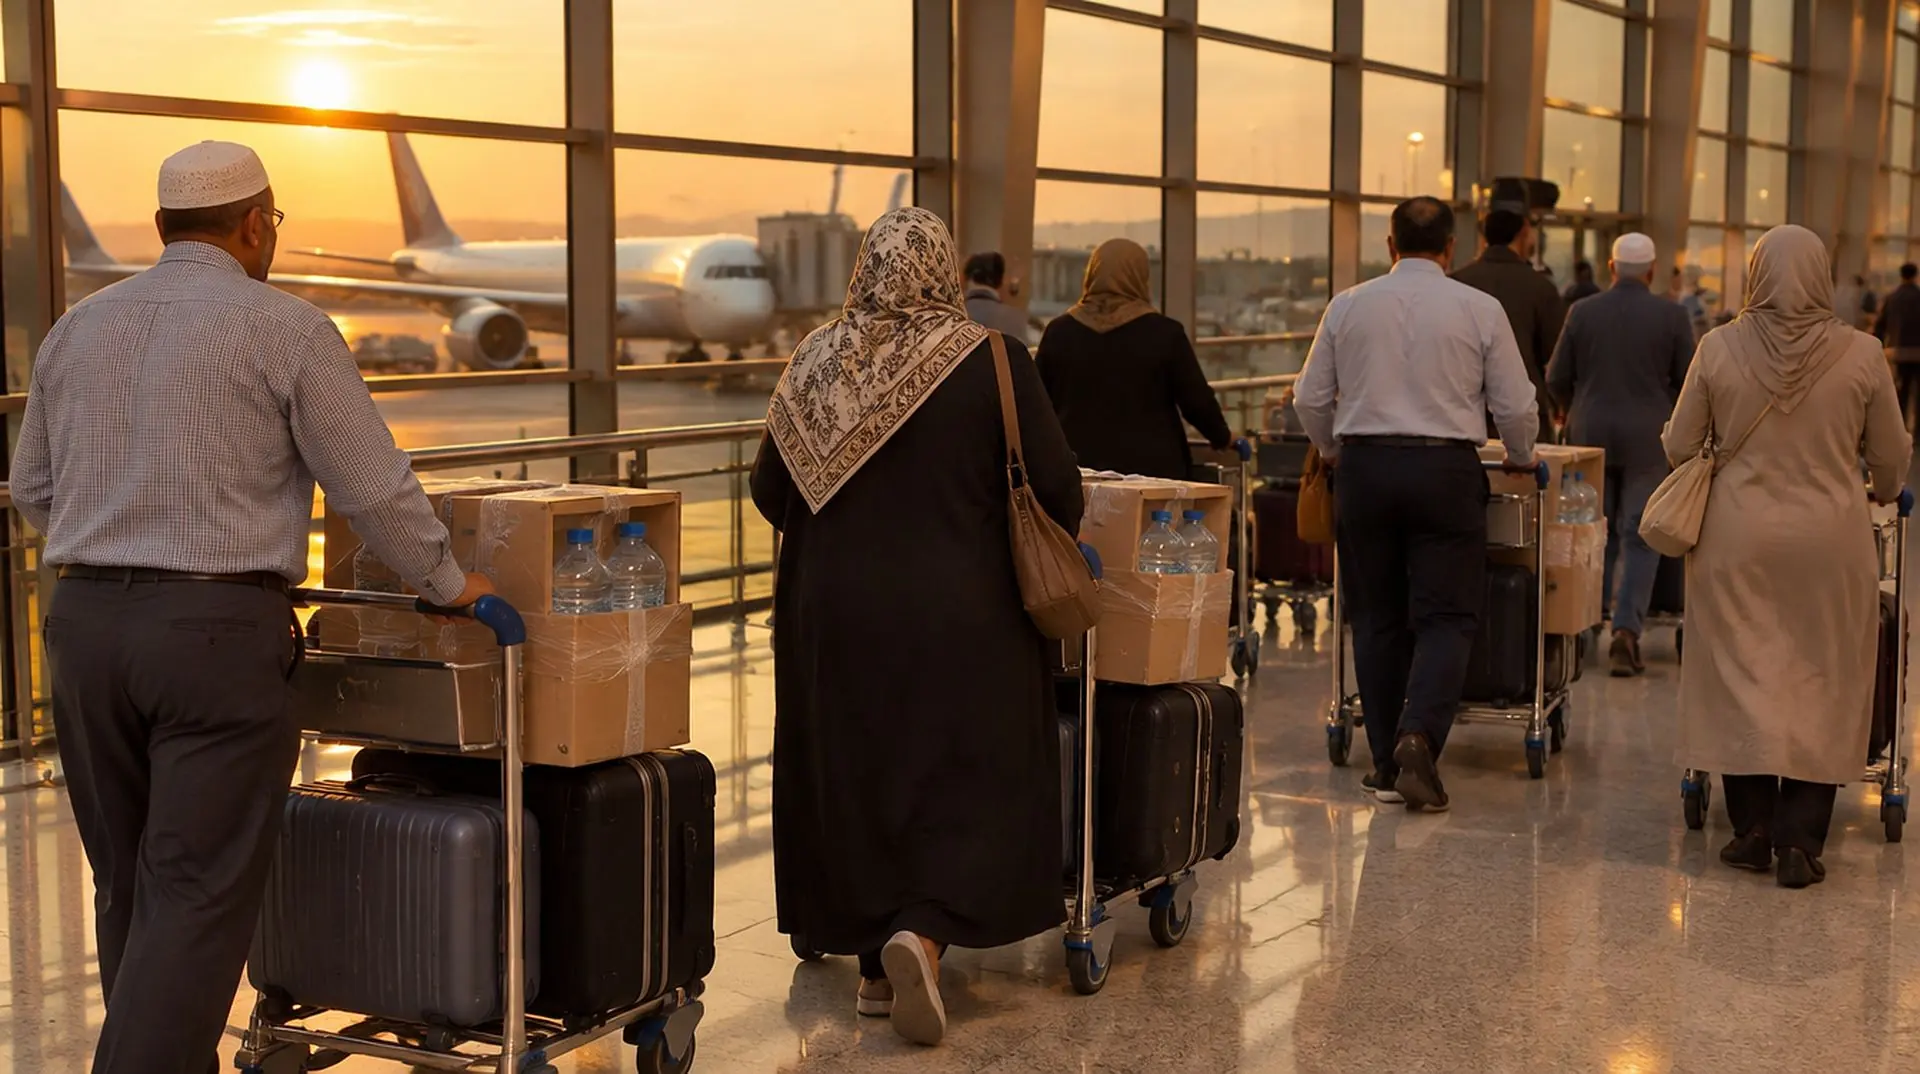
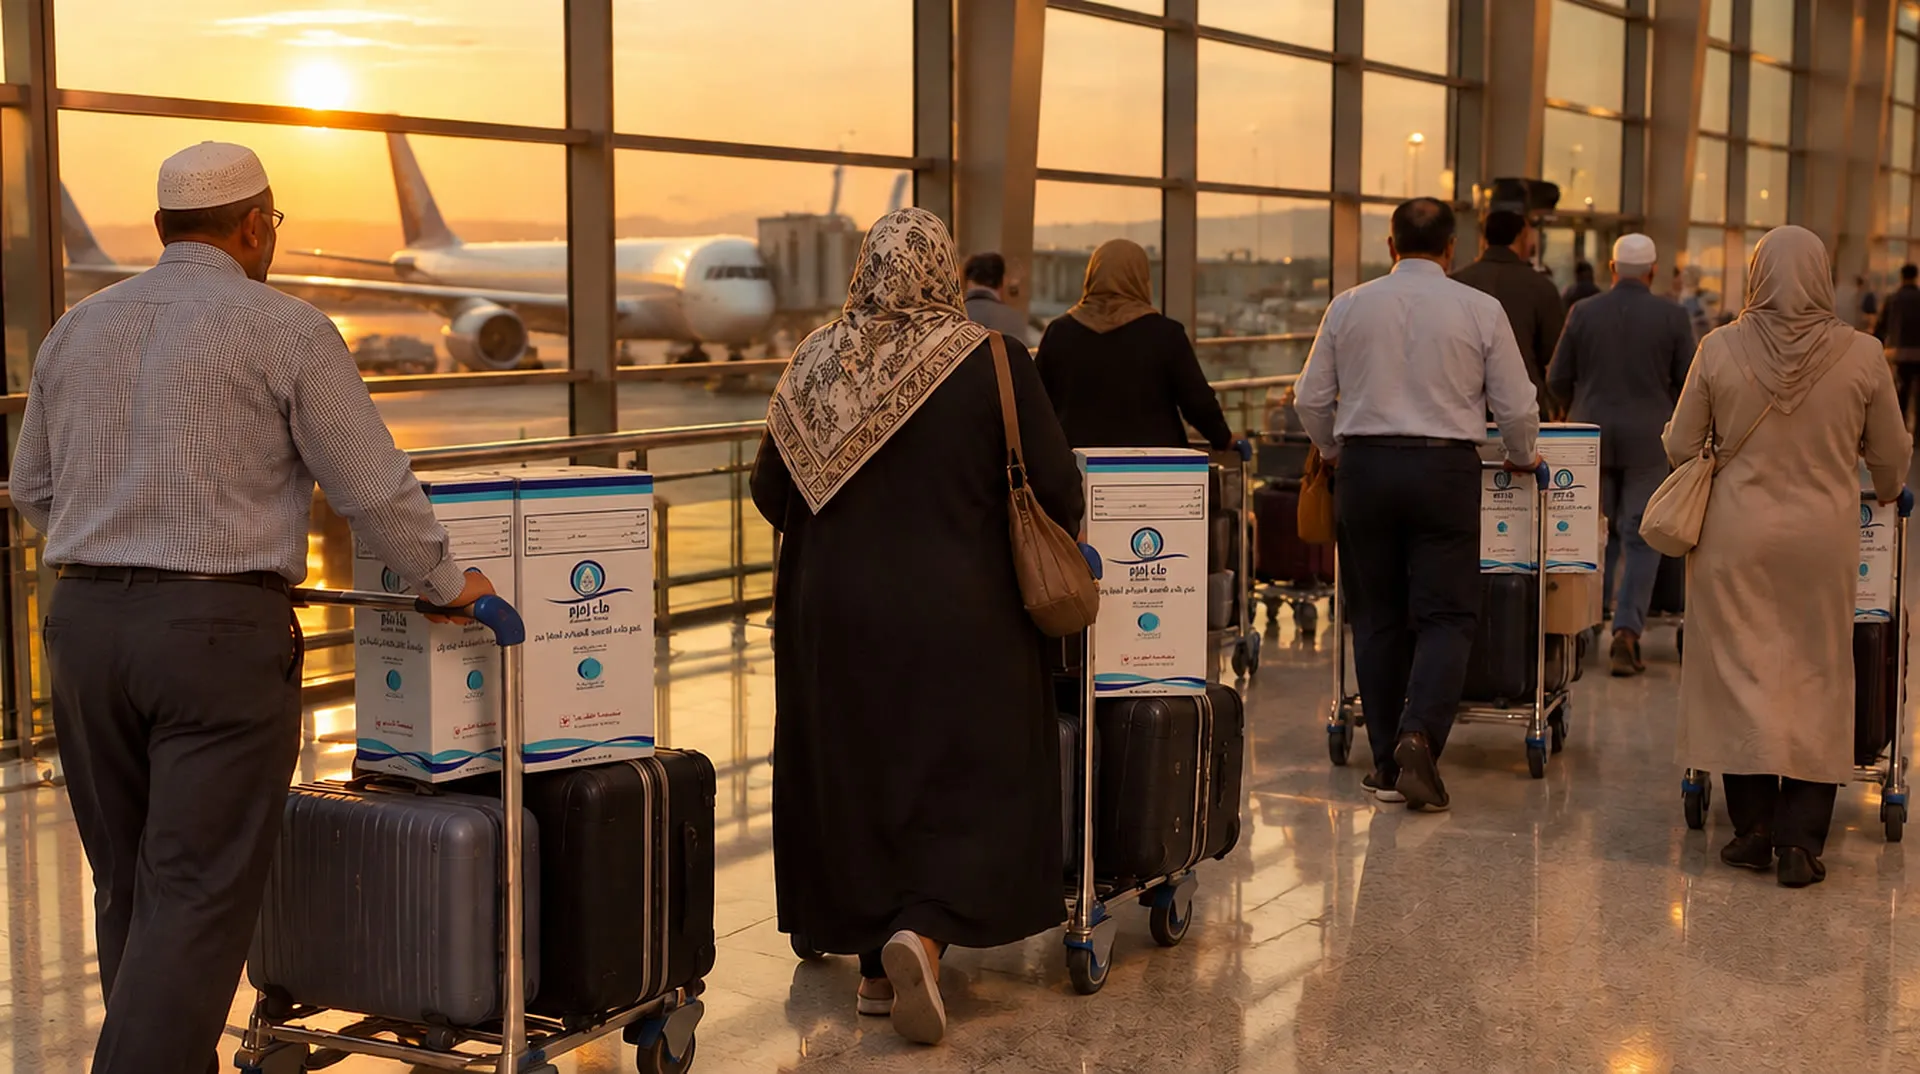
Dijital Tur: Durak yerine Adım; Dönüş fotoğrafında resmî zemzem kutuları (masaüstü ve telefon)
Claude-Session: https://claude.ai/code/session_01J87fLAF2fDjadWq88Wy7gX

diff --git a/docs/tur.html b/docs/tur.html
@@ -4,21 +4,21 @@
 <meta charset="utf-8">
 <meta name="viewport" content="width=device-width, initial-scale=1, viewport-fit=cover">
 <title>Dijital Umre Turu · İstanbul Hac Umre Hediyelik</title>
-<meta name="description" content="Umre nasıl yapılır? Hazırlıktan eve dönüşe on durakta, Hanefî mezhebine göre adım adım umre rehberi: ihram, niyet, telbiye, tavaf, sa'y, tıraş ve okunacak dualar.">
+<meta name="description" content="Umre nasıl yapılır? Hazırlıktan eve dönüşe on adımda, Hanefî mezhebine göre umre rehberi: ihram, niyet, telbiye, tavaf, sa'y, tıraş ve okunacak dualar.">
 <meta name="theme-color" content="#0b1630">
 <link rel="canonical" href="https://istanbulhacumre.com/tur.html">
 <meta property="og:type" content="article">
 <meta property="og:locale" content="tr_TR">
 <meta property="og:site_name" content="İstanbul Hac Umre Hediyelik">
 <meta property="og:title" content="Dijital Umre Turu: Umre adım adım nasıl yapılır?">
-<meta property="og:description" content="Hazırlıktan eve dönüşe on durakta umre: ihram, niyet, telbiye, tavaf, sa'y, tıraş ve okunacak dualar.">
+<meta property="og:description" content="Hazırlıktan eve dönüşe on adımda umre: ihram, niyet, telbiye, tavaf, sa'y, tıraş ve okunacak dualar.">
 <meta property="og:url" content="https://istanbulhacumre.com/tur.html">
 <meta property="og:image" content="https://istanbulhacumre.com/assets/og.jpg">
 <meta property="og:image:width" content="1200"><meta property="og:image:height" content="630">
 <meta name="twitter:card" content="summary_large_image">
 <meta name="robots" content="index,follow,max-image-preview:large,max-snippet:-1,max-video-preview:-1">
 <meta property="og:image:alt" content="İstanbul Hac Umre Hediyelik mağazası, Ümraniye">
-<script type="application/ld+json">{"@context":"https://schema.org","@graph":[{"@type":"BreadcrumbList","itemListElement":[{"@type":"ListItem","position":1,"name":"Ana Sayfa","item":"https://istanbulhacumre.com/"},{"@type":"ListItem","position":2,"name":"Dijital Umre Turu","item":"https://istanbulhacumre.com/tur.html"}]},{"@type":"Article","headline":"Dijital Umre Turu: Umre adım adım nasıl yapılır?","description":"Hazırlıktan eve dönüşe on durakta, Hanefî mezhebine göre adım adım umre rehberi: ihram, niyet, telbiye, tavaf, sa'y, tıraş ve okunacak dualar.","image":"https://istanbulhacumre.com/assets/og.jpg","inLanguage":"tr","mainEntityOfPage":"https://istanbulhacumre.com/tur.html","author":{"@type":"Organization","name":"İstanbul Hac Umre Hediyelik","url":"https://istanbulhacumre.com/"},"publisher":{"@type":"Organization","name":"İstanbul Hac Umre Hediyelik","logo":{"@type":"ImageObject","url":"https://istanbulhacumre.com/assets/ikon-512.png"}}}]}</script>
+<script type="application/ld+json">{"@context":"https://schema.org","@graph":[{"@type":"BreadcrumbList","itemListElement":[{"@type":"ListItem","position":1,"name":"Ana Sayfa","item":"https://istanbulhacumre.com/"},{"@type":"ListItem","position":2,"name":"Dijital Umre Turu","item":"https://istanbulhacumre.com/tur.html"}]},{"@type":"Article","headline":"Dijital Umre Turu: Umre adım adım nasıl yapılır?","description":"Hazırlıktan eve dönüşe on adımda, Hanefî mezhebine göre umre rehberi: ihram, niyet, telbiye, tavaf, sa'y, tıraş ve okunacak dualar.","image":"https://istanbulhacumre.com/assets/og.jpg","inLanguage":"tr","mainEntityOfPage":"https://istanbulhacumre.com/tur.html","author":{"@type":"Organization","name":"İstanbul Hac Umre Hediyelik","url":"https://istanbulhacumre.com/"},"publisher":{"@type":"Organization","name":"İstanbul Hac Umre Hediyelik","logo":{"@type":"ImageObject","url":"https://istanbulhacumre.com/assets/ikon-512.png"}}}]}</script>
 <link rel="icon" href="assets/ikon-48.png" sizes="48x48" type="image/png">
 <link rel="apple-touch-icon" href="assets/ikon-180.png">
 <link rel="preconnect" href="https://fonts.googleapis.com">
@@ -633,7 +633,7 @@ body.kabuk-gizli .sabit-sag{opacity:0;transform:translateY(-16px);pointer-events
 <body>
 
 
-<button class="rota-gosterge" id="gosterge" type="button" aria-live="polite" aria-haspopup="dialog" aria-expanded="false" title="Duraklar arasında geçiş yapın">
+<button class="rota-gosterge" id="gosterge" type="button" aria-live="polite" aria-haspopup="dialog" aria-expanded="false" title="Adımlar arasında geçiş yapın">
   <svg viewBox="0 0 36 36" aria-hidden="true"><circle cx="18" cy="18" r="15" fill="none" stroke="currentColor" stroke-opacity=".15" stroke-width="2"/><circle class="halka" cx="18" cy="18" r="15" fill="none" stroke-width="2" stroke-dasharray="94.25" stroke-dashoffset="94.25" stroke-linecap="round"/></svg>
   <span><b id="gosterge-no">1/10</b> <span id="gosterge-ad">Hazırlık</span></span>
   <svg class="gosterge-ok" viewBox="0 0 24 24" width="14" height="14" fill="none" stroke="currentColor" stroke-width="2" stroke-linecap="round" stroke-linejoin="round" aria-hidden="true"><path d="m6 9 6 6 6-6"/></svg>
@@ -641,8 +641,8 @@ body.kabuk-gizli .sabit-sag{opacity:0;transform:translateY(-16px);pointer-events
 <div class="rota-cizgi" aria-hidden="true"><i id="rotaCizgi"></i></div>
 <div class="durak-sec" id="durakSec" hidden>
   <div class="durak-perde" data-kapat></div>
-  <div class="durak-pan" role="dialog" aria-modal="true" aria-label="Turun durakları">
-    <div class="durak-bas"><strong>Turun durakları</strong><button type="button" class="durak-kapat" data-kapat aria-label="Kapat">×</button></div>
+  <div class="durak-pan" role="dialog" aria-modal="true" aria-label="Turun adımları">
+    <div class="durak-bas"><strong>Turun adımları</strong><button type="button" class="durak-kapat" data-kapat aria-label="Kapat">×</button></div>
     <ol class="durak-liste" id="durakListe"></ol>
   </div>
 </div>
@@ -674,10 +674,10 @@ body.kabuk-gizli .sabit-sag{opacity:0;transform:translateY(-16px);pointer-events
 <section class="rota" id="rota" data-ton="acik">
   <div class="icerik">
     <div class="rota-giris">
-      <h2>On durakta umre</h2>
+      <h2>On adımda umre</h2>
       <div>
         <p>Umre; ihrama girip Kâbe'yi tavaf etmekten, Safa ile Merve arasında sa'y yapmaktan ve tıraş olup ihramdan çıkmaktan oluşan bir ibadettir. Hanefî mezhebine göre ömürde bir kez umre yapmak sünnet-i müekkededir.</p>
-        <p>Bu rehberde, Türkiye'den yola çıkan bir kafilenin izlediği sırayı takip ediyoruz. Kafilelerin çoğu önce Medine-i Münevvere'ye gider; ihrama, Medine-i Münevvere'den Mekke-i Mükerreme'ye giderken mîkatta girilir. Her durakta o adımın nasıl yapıldığını, ne okunduğunu ve nelere dikkat edildiğini bulacaksınız.</p>
+        <p>Bu rehberde, Türkiye'den yola çıkan bir kafilenin izlediği sırayı takip ediyoruz. Kafilelerin çoğu önce Medine-i Münevvere'ye gider; ihrama, Medine-i Münevvere'den Mekke-i Mükerreme'ye giderken mîkatta girilir. Her adımda bunun nasıl yapıldığını, ne okunduğunu ve nelere dikkat edildiğini bulacaksınız.</p>
       </div>
     </div>
     <div class="esaslar">
@@ -705,7 +705,7 @@ body.kabuk-gizli .sabit-sag{opacity:0;transform:translateY(-16px);pointer-events
 <!-- 1 HAZIRLIK -->
 <section class="durak hazirlik" id="hazirlik" data-durak="1" data-ad="Hazırlık" data-ton="acik">
   <div class="icerik">
-    <div class="durak-bas"><span class="durak-no">Durak 1</span><div><h2>Hazırlık</h2></div></div>
+    <div class="durak-bas"><span class="durak-no">Adım 1</span><div><h2>Hazırlık</h2></div></div>
     <div class="hazirlik-izgara">
       <div class="hazirlik-metin">
         <p class="giris">Umreye hazırlık, kaydınızı yaptırdığınız gün başlar. Rehberimizin ilk tavsiyesi, bu yolculuğun turistik bir gezi değil, bir ibadet ve sabır yolculuğu olduğunu bilerek yola çıkmaktır.</p>
@@ -748,7 +748,7 @@ body.kabuk-gizli .sabit-sag{opacity:0;transform:translateY(-16px);pointer-events
 <section class="durak yolculuk" id="yolculuk" data-durak="2" data-ad="Yola çıkış" data-ton="acik">
   <div class="yapis">
     <div class="yolculuk-on" id="yolculuk-on">
-      <span class="durak-no">Durak 2</span>
+      <span class="durak-no">Adım 2</span>
       <h2 style="margin-top:14px">Yola çıkış</h2>
       <p class="soluk" style="margin-top:14px">Havalimanında kafilenizle buluşursunuz. Uçak, kafilenin programına göre Medine-i Münevvere'ye ya da Cidde'ye iner.</p>
     </div>
@@ -782,7 +782,7 @@ body.kabuk-gizli .sabit-sag{opacity:0;transform:translateY(-16px);pointer-events
 <!-- 3 MEDİNE -->
 <section class="durak medine koyu-bolum" id="medine" data-durak="3" data-ad="Medine-i Münevvere" data-ton="koyu">
   <div class="icerik">
-    <div class="durak-bas"><span class="durak-no">Durak 3</span><div><h2>Medine-i Münevvere</h2><span class="ar" lang="ar">المدينة المنورة</span></div></div>
+    <div class="durak-bas"><span class="durak-no">Adım 3</span><div><h2>Medine-i Münevvere</h2><span class="ar" lang="ar">المدينة المنورة</span></div></div>
     <p class="dar giris">Medine-i Münevvere, Peygamber Efendimiz'in hicret ettiği, mescidinin ve kabr-i şerifinin bulunduğu şehirdir. Rehberimiz Medine-i Münevvere'ye salavat okuyarak girmeyi ve otele yerleşir yerleşmez vakit kaybetmeden Peygamber Efendimiz'i selamlamaya gitmeyi tavsiye eder.</p>
   </div>
   <div class="semsiye-bant" id="semsiye"><img data-g="medine" data-w="2000" alt="Mescid-i Nebevî avlusunun beyaz şemsiyeleri ve Kubbe-i Hadra (yeşil kubbe), akşam ışığında" loading="lazy"></div>
@@ -847,7 +847,7 @@ body.kabuk-gizli .sabit-sag{opacity:0;transform:translateY(-16px);pointer-events
 <!-- 4 MÎKAT -->
 <section class="durak mikat" id="mikat" data-durak="4" data-ad="Mîkat" data-ton="acik">
   <div class="icerik">
-    <div class="durak-bas"><span class="durak-no">Durak 4</span><div><h2>Mîkat</h2><span class="ar" lang="ar">الميقات</span></div></div>
+    <div class="durak-bas"><span class="durak-no">Adım 4</span><div><h2>Mîkat</h2><span class="ar" lang="ar">الميقات</span></div></div>
     <p class="dar giris">Mîkat, Mekke-i Mükerreme'ye hac ya da umre niyetiyle gelenlerin ihramsız geçmemesi gereken sınırdır. Medine-i Münevvere'den gelen kafileler ihrama, Medine-i Münevvere çıkışındaki Zülhuleyfe'de, bugünkü adıyla Âbâr-ı Ali'de girer. Hanefî mezhebine göre ihrama girmek için niyetle birlikte telbiye getirmek şarttır; yalnızca niyet etmekle ihrama girilmiş olmaz.</p>
   </div>
   <div class="mikat-bant" id="mikat-bant"><img data-g="mikat" data-w="2000" alt="Şafak vakti mîkat mescidine doğru yürüyen ihramlı hacı adayları, arkada dağlar" loading="lazy"></div>
@@ -937,7 +937,7 @@ body.kabuk-gizli .sabit-sag{opacity:0;transform:translateY(-16px);pointer-events
 <!-- 5 TAVAF -->
 <section class="durak tavaf" id="tavaf" data-durak="5" data-ad="Tavaf" data-ton="koyu">
   <div class="yapis">
-    <div class="tavaf-baslik" id="tavaf-baslik"><span class="durak-no">Durak 5</span><h2 style="margin-top:14px">Harem'e giriş<br>ve tavaf</h2></div>
+    <div class="tavaf-baslik" id="tavaf-baslik"><span class="durak-no">Adım 5</span><h2 style="margin-top:14px">Harem'e giriş<br>ve tavaf</h2></div>
     <div class="lebbeyk" id="lebbeyk" aria-hidden="true"><span lang="ar">لَبَّيْكَ</span></div>
     <div class="kare" data-kare="0"><picture><source type="image/webp" media="(max-width: 1024px) and (orientation: portrait)" srcset="assets/g/kabe1M.webp"><source media="(max-width: 1024px) and (orientation: portrait)" srcset="assets/g/kabe1M.jpg"><source type="image/webp" srcset="assets/g/kabe1.webp"><img src="assets/g/kabe1.jpg" alt="Mescid-i Haram avlusu ve Kâbe, gündüz geniş açı"></picture></div>
     <div class="kare" data-kare="1"><picture><source type="image/webp" media="(max-width: 1024px) and (orientation: portrait)" srcset="assets/g/kabe2M.webp"><source media="(max-width: 1024px) and (orientation: portrait)" srcset="assets/g/kabe2M.jpg"><source type="image/webp" srcset="assets/g/kabe2.webp"><img src="assets/g/kabe2.jpg" alt="Tavaf eden kalabalık ve Kâbe, yukarıdan"></picture></div>
@@ -978,7 +978,7 @@ body.kabuk-gizli .sabit-sag{opacity:0;transform:translateY(-16px);pointer-events
 <section class="durak zemzem" id="zemzem" data-durak="6" data-ad="Namaz ve zemzem" data-ton="acik">
   <div class="icerik ikili">
     <div>
-      <div class="durak-bas" style="grid-template-columns:1fr;gap:16px"><span class="durak-no">Durak 6</span><h2>Namaz ve zemzem</h2></div>
+      <div class="durak-bas" style="grid-template-columns:1fr;gap:16px"><span class="durak-no">Adım 6</span><h2>Namaz ve zemzem</h2></div>
       <p class="giris">Tavaf bitince erkekler sağ omuzlarını örter ve iki rekât tavaf namazı kılınır. Bu namaz Hanefî mezhebine göre vaciptir.</p>
       <ol class="adim-liste">
         <li><strong>Yer</strong><p>Tavaf namazı mümkünse Makam-ı İbrahim'in arkasında, Beytullah'a bakarak kılınır; kafile hâlinde kılınırken erkekler önde, hanımlar arkada durur. Kalabalık varsa namaz Mescid-i Haram'ın uygun bir yerinde kılınır.</p></li>
@@ -999,7 +999,7 @@ body.kabuk-gizli .sabit-sag{opacity:0;transform:translateY(-16px);pointer-events
     <div class="say-arka"><img data-g="say" data-w="2000" alt="Safa ile Merve arasındaki uzun mermer sa'y yolu; tavanda yeşil ışıklar ve yürüyen ihramlılar" loading="lazy"></div>
     <div class="say-ray" id="say-ray">
       <div class="say-giris">
-        <span class="durak-no">Durak 7</span>
+        <span class="durak-no">Adım 7</span>
         <h2 style="margin:14px 0 18px">Sa'y</h2>
         <p>Sa'y, Hz. Hâcer'in oğlu İsmâil için su ararken Safa ile Merve tepeleri arasında gidip gelişinin hatırasıdır. Safa'dan başlar, Merve'de biter: Dört kez Safa'dan Merve'ye, üç kez Merve'den Safa'ya gidilir ve her gidiş bir şavttır.</p>
         <p class="soluk">Sa'y Hanefî mezhebine göre vaciptir ve tavaftan sonra yapılır; tavaftan önce yapılan sa'y geçerli değildir. Kartlarda, şavtları sayarken sa'y boyunca bilinmesi gerekenleri bulacaksınız.</p>
@@ -1020,7 +1020,7 @@ body.kabuk-gizli .sabit-sag{opacity:0;transform:translateY(-16px);pointer-events
 <section class="durak tiras" id="tiras" data-durak="8" data-ad="Tıraş" data-ton="acik">
   <div class="tiras-arka"><img data-g="tiras" data-w="2000" alt="Berberde başı ustura ile kazınan ihramlı bir hacı adayı" loading="lazy"></div>
   <div class="icerik">
-    <div class="durak-bas" style="grid-template-columns:1fr;gap:16px"><span class="durak-no">Durak 8</span><h2>Tıraş ve ihramdan çıkış</h2></div>
+    <div class="durak-bas" style="grid-template-columns:1fr;gap:16px"><span class="durak-no">Adım 8</span><h2>Tıraş ve ihramdan çıkış</h2></div>
     <p class="dar giris">Sa'yin ardından tıraş olunur. Tıraş umrenin vaciplerindendir; tıraş olmadıkça ihram yasakları devam eder.</p>
     <div class="tiras-izgara">
       <div class="dikkat"><h4>Erkekler</h4><p>Başın tamamını ustura ile kazıtmak (halk) en faziletlisidir. Kazıtmak istemeyen kişi saçlarının tamamını parmak ucu kadar, yani 1,5–2 santim kısaltır (taksir). Başın en az dörtte birini kazıtmak ya da kısaltmak vacibi yerine getirir, ancak sünnet terk edilmiş olur. Hanefî mezhebine göre birkaç tel saç kestirmek yeterli değildir. Başında saç bulunmayan kişi usturayı başında gezdirir.</p></div>
@@ -1035,7 +1035,7 @@ body.kabuk-gizli .sabit-sag{opacity:0;transform:translateY(-16px);pointer-events
   <div class="icerik ziyaret">
     <div class="cerceve"><picture><source type="image/webp" srcset="assets/g/kabeSaat.webp"><img src="assets/g/kabeSaat.jpg" alt="Kâbe ve arkasında saat kulesi, alttan bakış" loading="lazy"></picture></div>
     <div>
-      <div class="durak-bas" style="grid-template-columns:1fr;gap:16px;margin-bottom:24px"><span class="durak-no">Durak 9</span><h2>Mekke-i Mükerreme'deki günler</h2></div>
+      <div class="durak-bas" style="grid-template-columns:1fr;gap:16px;margin-bottom:24px"><span class="durak-no">Adım 9</span><h2>Mekke-i Mükerreme'deki günler</h2></div>
       <p class="giris">Umreyi tamamladıktan sonra Mekke-i Mükerreme'de kaldığınız günleri ibadetle değerlendirin. Rehberimiz farz namazları Mescid-i Haram'da cemaatle kılmayı, bol bol nafile tavaf yapmayı ve Kur'an okumayı tavsiye eder.</p>
       <div class="dikkat"><h4>Yeniden umre yapmak isteyenler</h4><p>Mekke-i Mükerreme'deyken yeniden umre yapmak isteyenler Harem sınırının dışına çıkarak ihrama girer. Hanefî mezhebine göre bunun için en faziletli yer Ten'îm'deki Hz. Âişe Mescidi'dir; Ci'râne ve Hudeybiye de tercih edilir. Mescitte iki rekât namaz kılınır, niyet edilip telbiye getirilir ve ilk umredeki gibi tavaf, sa'y ve tıraş yapılır.</p></div>
       <h3 class="ara-baslik">Ziyaret edilen yerler</h3>
@@ -1054,7 +1054,7 @@ body.kabuk-gizli .sabit-sag{opacity:0;transform:translateY(-16px);pointer-events
 <!-- 10 DÖNÜŞ -->
 <section class="durak donus" id="donus" data-durak="10" data-ad="Dönüş" data-ton="acik">
   <div class="icerik">
-    <div class="durak-bas"><span class="durak-no">Durak 10</span><div><h2>Dönüş</h2></div></div>
+    <div class="durak-bas"><span class="durak-no">Adım 10</span><div><h2>Dönüş</h2></div></div>
     <p class="dar giris">Hanefî mezhebine göre umre yapanların veda tavafı yapması gerekmez; Şâfiî mezhebinde ise umre yapanlar için de vaciptir. Mekke-i Mükerreme'den ayrılmadan önce bir tavafla Kâbe'ye veda etmek her hâlükârda güzeldir. Hac yapanlar için veda tavafı vaciptir.</p>
   </div>
   <div class="donus-gorsel" id="donus-gorsel"><img data-g="havalimani" data-w="2000" alt="Havalimanında bagaj arabalarında valizler ve mühürlü zemzem kutularıyla dönüş yolundaki umreciler" loading="lazy"></div>

diff --git a/docs/index.html b/docs/index.html
@@ -552,13 +552,13 @@
  <div class="metin">
   <div class="ust-yazi" data-gel>Umre rehberi</div>
   <h2 id="tur-baslik" data-gel>Umre nasıl yapılır? <span class="metal metal-yazi" data-isik>Adım adım</span> dijital tur.</h2>
-  <p data-gel>Hazırlıktan eve dönüşe kadar umreyi on durakta anlatan rehberimizi gezin. Her durakta o adımın ne zaman ve nasıl yapıldığını, okunacak duaları ve dikkat edilecek noktaları fotoğraflarla öğrenirsiniz. Kayıt gerekmez; rehber telefondan da rahatça takip edilir.</p>
+  <p data-gel>Hazırlıktan eve dönüşe kadar umreyi on adımda anlatan rehberimizi gezin. Her adımın ne zaman ve nasıl yapıldığını, okunacak duaları ve dikkat edilecek noktaları fotoğraflarla öğrenirsiniz. Kayıt gerekmez; rehber telefondan da rahatça takip edilir.</p>
   <div class="dugmeler" data-gel><a class="btn altin" href="tur.html">Tura başlayın</a><a class="btn cam" href="tur.html#hazirlik"><span class="uzun">Hazırlık listesine gidin</span><span class="kisa">Hazırlık listesi</span></a></div>
  </div>
  <div class="telbiye" data-gel>
   <span class="ar" lang="ar">لَبَّيْكَ اللَّهُمَّ لَبَّيْكَ</span>
   <p class="anlam"><em>“Buyur Allah'ım, buyur!”</em> İhrama girerken söylenmeye başlanan ve Mescid-i Haram'a varıncaya kadar tekrarlanan telbiyenin ilk cümlesidir.</p>
-  <ol class="adimlar" aria-label="Turun durakları">
+  <ol class="adimlar" aria-label="Turun adımları">
    <li>Hazırlık</li>
    <li>Yola çıkış</li>
    <li>Medine-i Münevvere</li>
